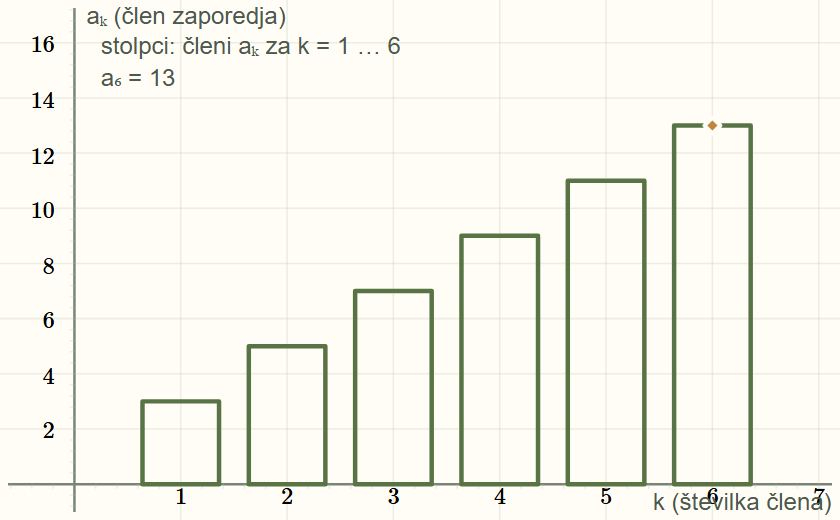
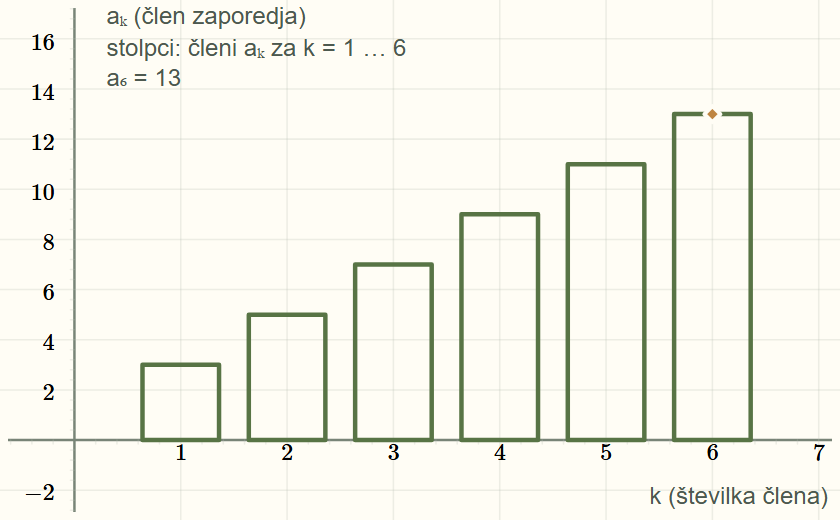
fix: growth board texts stay clear of the axes and tick numbers
The x title stands under the tick row at the bottom right, negative x tick
numbers are not written, and the y title, caption rows and legend sit
16 px right of the axis. The card capture accepts the screen-anchored
legend samples of the growth cards. Recursion cards recaptured.

Claude-Session: https://claude.ai/code/session_01UfEZWPAJjUDrtsi1qRQ28P

diff --git a/src/graphs/recursion/GrowthGraph.tsx b/src/graphs/recursion/GrowthGraph.tsx
@@ -78,12 +78,26 @@ const INTEREST_STYLES: readonly Style[] = [
 const ROW_Y = 0.97;
 const ROW_STEP = 0.06;
 const rowY = (row: number): number => ROW_Y - ROW_STEP * (row + 1);
-const TEXT_X = 0.12;
+/** Pixels: the gap of every text right of the vertical axis; the length of a legend sample; the room under the horizontal axis for the tick numbers (22) and the axis title (18) and their gaps. */
+const AXIS_GAP_PX = 16;
+const SAMPLE_PX = 36;
+const BAND_PX = 48;
+/** Pixels between the axis title and the bottom edge of the board. */
+const TITLE_GAP_PX = 5;
 
 interface Cache {
     readonly state: GrowthGraphState;
     readonly derived: GrowthDerived;
     readonly box: Box;
+    readonly height: number;
+}
+
+/** The box with at least `BAND_PX` pixels of a board `height` px tall under the horizontal axis (y = 0): the tick numbers and the axis title stand there. */
+function withBand(box: Box, height: number): Box {
+    const [left, top, right, bottom] = box;
+    if (!(height > 2 * BAND_PX) || !(top > 0) || bottom * 0 !== 0) return box;
+    if (-bottom * height / (top - bottom) >= BAND_PX) return box;
+    return [left, top, right, -BAND_PX * top / (height - BAND_PX)];
 }
 
 function boxOf(state: GrowthState, derived: GrowthDerived): Box {
@@ -155,7 +169,7 @@ export class GrowthGraph extends BaseGraph<GrowthGraphState, GrowthState> {
 
     override importPresetData(data: GrowthState): void {
         const imported = serializeGrowthState(data);
-        if (this.keepImportedView) this.drawnBox = boxOf(imported, deriveGrowth(imported));
+        if (this.keepImportedView) this.drawnBox = withBand(boxOf(imported, deriveGrowth(imported)), this.boardHeight());
         this.setState(imported);
     }
 
@@ -175,17 +189,23 @@ export class GrowthGraph extends BaseGraph<GrowthGraphState, GrowthState> {
     }
 
     protected override initialView(): [number, number, number, number] {
-        return [...boxOf(DEFAULT_GROWTH_STATE, deriveGrowth(DEFAULT_GROWTH_STATE))];
+        return [...withBand(boxOf(DEFAULT_GROWTH_STATE, deriveGrowth(DEFAULT_GROWTH_STATE)), this.boardHeight())];
     }
 
     // ---- Derived numbers: a cache keyed by the state object ---------------------------------------------------------------
 
     private current(): Cache {
-        if (!this.cache || this.cache.state !== this.state) {
-            const derived = deriveGrowth(this.state);
-            this.cache = {state: this.state, derived, box: boxOf(this.state, derived)};
+        const height = this.boardHeight();
+        if (!this.cache || this.cache.state !== this.state || this.cache.height !== height) {
+            const derived = this.cache?.state === this.state ? this.cache.derived : deriveGrowth(this.state);
+            this.cache = {state: this.state, derived, box: withBand(boxOf(this.state, derived), height), height};
         }
         return this.cache;
+    }
+
+    /** The height of the board in pixels, or 0 before there is a board. */
+    private boardHeight(): number {
+        return this.hasBoard && this.board.canvasHeight > 0 ? this.board.canvasHeight : 0;
     }
 
     derived(): GrowthDerived { return this.current().derived; }
@@ -279,17 +299,40 @@ export class GrowthGraph extends BaseGraph<GrowthGraphState, GrowthState> {
         return curve;
     }
 
-    private caption(text: () => string, place: () => {x: number; y: number}, visible: () => boolean, anchorX: "left" | "right" = "left"): JXG.Text {
+    private caption(text: () => string, place: () => {x: number; y: number}, visible: () => boolean, anchorX: "left" | "right" = "left", anchorY: "middle" | "bottom" = "middle"): JXG.Text {
         return this.scene.own(this.board.create("text", [() => place().x, () => place().y, text], {
-            strokeColor: GraphPalette.label, fontSize: 14, anchorX, anchorY: "middle", fixed: true, highlight: false, withLabel: false, visible,
+            strokeColor: GraphPalette.label, fontSize: 14, anchorX, anchorY, fixed: true, highlight: false, withLabel: false, visible,
         }));
     }
 
-    /** The vertical axis title starts a few pixels right of the axis, where no tick label stands (they are left of it). */
-    private axisTitleX(): number {
-        const [xmin, , xmax] = this.current().box;
+    /** The x of the texts right of the vertical axis (its title, the legend, the caption rows): `AXIS_GAP_PX` right of the axis, where no tick number stands (they are left of it). */
+    private textLeft(): number {
+        const [xmin, , xmax] = this.view();
+        return (xmin < 0 && xmax > 0 ? 0 : xmin) + this.pixels(AXIS_GAP_PX);
+    }
+
+    /** The window the board shows (the panel's own box until the user pans or zooms, a capture sets its own): the texts are placed in it, in pixels from its edges and the axes. */
+    private view(): Box {
+        const [left, top, right, bottom] = this.hasBoard ? this.board.getBoundingBox() : this.current().box;
+        return [left, top, right, bottom];
+    }
+
+    /** A length in pixels as a width in board units. */
+    private pixels(px: number): number {
         const {unitX} = this.board;
-        return (xmin < 0 && xmax > 0 ? 0 : xmin) + 6 / (unitX > 0 ? unitX : 1);
+        return px / (unitX > 0 ? unitX : 1);
+    }
+
+    /** The x tick numbers of negative x are not written: the quantities start at 0 and 1, and a number there is cut at the left edge. */
+    protected override defaultAxesAttributes() {
+        const axis = this.styles.axis;
+        const labelOf = axis.defaultX.ticks?.generateLabelText as ((this: object, ...label: unknown[]) => string) | undefined;
+        const nonNegative = function (this: object, ...label: unknown[]): string {
+            const tick = label[0] as {usrCoords?: number[]} | undefined;
+            if (tick?.usrCoords && tick.usrCoords[1] < 0) return "";
+            return labelOf ? labelOf.apply(this, label) : "";
+        };
+        return {x: {...axis.defaultX, ticks: {...axis.defaultX.ticks, generateLabelText: nonNegative}}, y: axis.defaultY};
     }
 
     private marker(x: () => number, y: () => number, visible: () => boolean, face: string, color: string): JXG.Point {
@@ -303,9 +346,9 @@ export class GrowthGraph extends BaseGraph<GrowthGraphState, GrowthState> {
         this.built = true;
         const state = () => this.state;
         const derived = () => this.derived();
-        const box = () => this.current().box;
+        const box = () => this.view();
         const on = (panel: GrowthPanel) => () => this.state.panel === panel;
-        const place = (fx: number, fy: number) => () => at(box(), fx, fy);
+        const textAt = (fy: number, offsetPx = 0) => () => ({x: this.textLeft() + this.pixels(offsetPx), y: at(box(), 0, fy).y});
 
         // Sequence panel: the bars of the terms, the limit line, the n-th term marked.
         this.curve(() => barsPath(derived().sequence.terms.map(Number)), {color: GraphPalette.primaryCurve, width: 2, dash: 0}, on("sequence"));
@@ -314,10 +357,10 @@ export class GrowthGraph extends BaseGraph<GrowthGraphState, GrowthState> {
             return {x: [box()[0], box()[2]], y: [limit, limit]};
         }, {color: GraphPalette.comparisonCurve, width: 2, dash: 2}, () => state().panel === "sequence" && derived().sequence.limit !== null);
         this.marker(() => state().n, () => Number(derived().sequence.nth), on("sequence"), "diamond", GraphPalette.constructionAccent);
-        this.caption(() => t("recursion_graph_growth_cap_bars", {value0: state().n}), place(TEXT_X, rowY(0)), on("sequence"));
+        this.caption(() => t("recursion_graph_growth_cap_bars", {value0: state().n}), textAt(rowY(0)), on("sequence"));
         this.caption(() => t("recursion_graph_growth_cap_nth", {value0: subscript(state().n), value1: seq(derived().sequence.nth)}),
-            place(TEXT_X, rowY(1)), on("sequence"));
-        this.caption(() => t("recursion_graph_growth_cap_limit", {value0: num(derived().sequence.limit ?? NaN)}), place(TEXT_X, rowY(2)),
+            textAt(rowY(1)), on("sequence"));
+        this.caption(() => t("recursion_graph_growth_cap_limit", {value0: num(derived().sequence.limit ?? NaN)}), textAt(rowY(2)),
             () => state().panel === "sequence" && derived().sequence.limit !== null);
 
         // Interest panel: four curves in the window of the years, each with a legend line of the same style and a caption.
@@ -345,10 +388,10 @@ export class GrowthGraph extends BaseGraph<GrowthGraphState, GrowthState> {
         });
         INTEREST_STYLES.forEach((style, index) => {
             this.curve(() => {
-                const from = at(box(), TEXT_X, rowY(index));
-                return {x: [from.x, at(box(), TEXT_X + 0.06, rowY(index)).x], y: [from.y, from.y]};
+                const from = textAt(rowY(index))();
+                return {x: [from.x, from.x + this.pixels(SAMPLE_PX)], y: [from.y, from.y]};
             }, style, on("interest"));
-            this.caption(captions[index], place(TEXT_X + 0.08, rowY(index)), on("interest"));
+            this.caption(captions[index], textAt(rowY(index), SAMPLE_PX + 8), on("interest"));
         });
 
         // Logarithm panel: the points (n, ln y), the chord through the first and the last point, one marker per point.
@@ -359,14 +402,14 @@ export class GrowthGraph extends BaseGraph<GrowthGraphState, GrowthState> {
                 () => state().panel === "log" && index < derived().log.ns.length, "circle", GraphPalette.primaryCurve);
         }
         this.caption(() => t(state().logModel === "exponential" ? "recursion_graph_growth_cap_points_exponential" : "recursion_graph_growth_cap_points_power"),
-            place(TEXT_X, rowY(0)), on("log"));
-        this.caption(() => t("recursion_graph_growth_cap_chord", {value0: num(derived().log.slope)}), place(TEXT_X, rowY(1)), on("log"));
+            textAt(rowY(0)), on("log"));
+        this.caption(() => t("recursion_graph_growth_cap_chord", {value0: num(derived().log.slope)}), textAt(rowY(1)), on("log"));
 
         // Axis captions of every panel: what the horizontal and the vertical axis show, and the unit.
         this.caption(() => t(state().panel === "sequence" ? "recursion_graph_growth_cap_x_sequence" : state().panel === "interest"
-            ? "recursion_graph_growth_cap_x_interest" : "recursion_graph_growth_cap_x_log"), place(0.99, 0.035), () => true, "right");
+            ? "recursion_graph_growth_cap_x_interest" : "recursion_graph_growth_cap_x_log"), () => ({x: box()[2] - this.pixels(6), y: box()[3] + TITLE_GAP_PX / (this.board.unitY > 0 ? this.board.unitY : 1)}), () => true, "right", "bottom");
         this.caption(() => t(state().panel === "sequence" ? "recursion_graph_growth_cap_y_sequence" : state().panel === "interest"
-            ? "recursion_graph_growth_cap_y_interest" : "recursion_graph_growth_cap_y_log"), () => ({x: this.axisTitleX(), y: at(box(), 0, ROW_Y).y}), () => true);
+            ? "recursion_graph_growth_cap_y_interest" : "recursion_graph_growth_cap_y_log"), () => ({x: this.textLeft(), y: at(box(), 0, ROW_Y).y}), () => true);
     }
 
     private disposeScene(): void {

diff --git a/src/graphs/recursion/GrowthGraph.test.tsx b/src/graphs/recursion/GrowthGraph.test.tsx
@@ -603,3 +603,75 @@ describe('the vertical axis title', () => {
         }
     });
 });
+
+/** Board texts as pixel boxes from the board's top left corner (the glyph box from its anchor), and the axes' pixel position. */
+function pixelBoxes(graph: ObservedGraph) {
+    const board = graph.liveBoard() as unknown as {unitX: number; unitY: number; getBoundingBox(): number[]};
+    const [left, top] = board.getBoundingBox();
+    const infobox = (board as unknown as {infobox?: unknown}).infobox;
+    const boxes = visible(texts(graph)).filter(o => (o as unknown) !== infobox).map(o => {
+        const text = o.plaintext ?? '';
+        const probe = o as Probe & {X(): number; Y(): number};
+        const size = Number(o.evalVisProp('fontsize')) || 14;
+        const w = text.length * size * 0.55, h = size * 1.15;
+        const x = (probe.X() - left) * board.unitX, y = (top - probe.Y()) * board.unitY;
+        const ax = o.evalVisProp('anchorx'), ay = o.evalVisProp('anchory');
+        const x0 = ax === 'right' ? x - w : ax === 'middle' ? x - w / 2 : x;
+        const y0 = ay === 'bottom' ? y - h : ay === 'middle' ? y - h / 2 : y;
+        return {text, x0, y0, x1: x0 + w, y1: y0 + h};
+    });
+    return {boxes, axisX: Math.max(0, -left * board.unitX), axisY: top * board.unitY, left, board};
+}
+
+/** Board sizes: a small phone board and a wide one. The jsdom default is 600 x 400. */
+describe.each([[600, 400], [340, 300], [840, 520]])('board texts clear of the axes and of each other (%i x %i px)', (W, H) => {
+    beforeEach(() => {
+        for (const [name, size] of Object.entries({clientWidth: W, offsetWidth: W, clientHeight: H, offsetHeight: H})) Object.defineProperty(HTMLElement.prototype, name, {configurable: true, get: () => size});
+        HTMLElement.prototype.getBoundingClientRect = () => ({x: 0, y: 0, left: 0, top: 0, right: W, bottom: H, width: W, height: H, toJSON: () => ({})}) as DOMRect;
+    });
+    afterEach(() => {
+        for (const [name, size] of [['clientWidth', 600], ['clientHeight', 400], ['offsetWidth', 600], ['offsetHeight', 400]] as const) Object.defineProperty(HTMLElement.prototype, name, {configurable: true, get: () => size});
+        HTMLElement.prototype.getBoundingClientRect = () => ({x: 0, y: 0, left: 0, top: 0, right: 600, bottom: 400, width: 600, height: 400, toJSON: () => ({})}) as DOMRect;
+    });
+
+    for (const value of ['sequence', 'interest', 'log'] as const) {
+        test(`${value}: the horizontal axis title stands under the tick number row, the vertical one and the legend clear of the axis`, () => {
+            const {graph} = mountGraph();
+            panel(value);
+            const {boxes, axisX, axisY, board} = pixelBoxes(graph);
+            expect([(board as unknown as {canvasWidth: number}).canvasWidth, (board as unknown as {canvasHeight: number}).canvasHeight]).toEqual([W, H]);
+            const title = boxes.find(b => b.text === t(`recursion_graph_growth_cap_x_${value}`))!;
+            expect(title, 'x title').toBeDefined();
+            // The tick numbers take about 22 px under the axis line.
+            expect(title.y0 - axisY, `x title top ${title.y0}, axis ${axisY}`).toBeGreaterThanOrEqual(22);
+            expect(title.y1).toBeLessThanOrEqual(H);
+            expect(title.x1).toBeLessThanOrEqual(W);
+            expect(title.x0).toBeGreaterThanOrEqual(0);
+            for (const box of boxes.filter(b => b !== title && b.x0 < axisX + 400)) {
+                expect(box.x0 - axisX, `"${box.text}" starts ${box.x0 - axisX} px right of the vertical axis`).toBeGreaterThanOrEqual(10);
+            }
+            boxes.forEach((box, i) => boxes.slice(i + 1).forEach(other => {
+                const crossing = box.x0 < other.x1 && box.x1 > other.x0 && box.y0 < other.y1 && box.y1 > other.y0;
+                expect(crossing, `"${box.text}" and "${other.text}" overlap`).toBe(false);
+            }));
+        });
+    }
+
+    test('the interest legend samples start clear of the vertical axis', () => {
+        const {graph} = mountGraph();
+        panel('interest');
+        const {axisX, left, board} = pixelBoxes(graph);
+        for (const curve of curves(graph).slice(LEGEND, LEGEND + 4)) {
+            expect((curve.dataX![0] - left) * board.unitX - axisX, 'legend sample start').toBeGreaterThanOrEqual(10);
+        }
+    });
+
+    test('no x tick number is written for a negative x (the quantities start at 0 and 1), so none is cut at the left edge', () => {
+        const {graph} = mountGraph();
+        for (const value of ['sequence', 'interest', 'log'] as const) {
+            panel(value);
+            const ticks = (graph.liveBoard() as unknown as {defaultAxes: {x: {defaultTicks: {generateLabelText(tick: unknown, zero: unknown): string}}}}).defaultAxes.x.defaultTicks;
+            expect(ticks.generateLabelText({usrCoords: [1, -0.1, 0]}, {distance: () => 1}), value).toBe('');
+        }
+    });
+});

diff --git a/src/learning/chapter/guidedExamplePreviews.ts b/src/learning/chapter/guidedExamplePreviews.ts
@@ -52,7 +52,7 @@ const patchImageUrls = import.meta.glob<string>('/src/images/learning/examples/p
     import: 'default',
 });
 
-/** Captured images in one subdirectory per chapter-owned chapter (the chapter id, named in `chapterFamilies` of the capture script, one PNG per example id plus its manifest, written by the capture script (recaptured after board text layout passes, the analytic-lines, isometries and circle-geometry ones too), each chapter folder, the level-sets and solids ones too, are read here once its images exist); the patches subdirectory has its own lookup below. */
+/** Captured images in one subdirectory per chapter-owned chapter (the chapter id, named in `chapterFamilies` of the capture script, one PNG per example id plus its manifest, written by the capture script (recaptured after board text layout passes, the analytic-lines, isometries, circle-geometry and recursion ones too), each chapter folder, the level-sets and solids ones too, are read here once its images exist); the patches subdirectory has its own lookup below. */
 const chapterImageUrls = import.meta.glob<string>('/src/images/learning/examples/*/*.png', {
     eager: true,
     query: '?url',

diff --git a/docs/reviews/feature-streams/families-prep/notes/f5-recursion.md b/docs/reviews/feature-streams/families-prep/notes/f5-recursion.md
@@ -9,3 +9,10 @@
 - Board labels touching: sequences: axis caption `k (številka člena)` overlaps the tick labels 6 and 7; the title `aₖ (člen zaporedja)` touches the vertical axis line; the diamond sits on the top edge of bar 6 (intended marker). Interest: axis caption `t (leta)` overlaps tick label 1; tick label `-0,1` is cut at the left edge; legend captions start right at the vertical axis. No handles on either board. Not fixable in owned paths (graph code).
 - Readouts already showing step 1's answer: none. Sequences shows `a₆ = 13` (step 1 asks a₁₀); interest shows 1050 each after one year (step 1 asks the 10-year values). Copy names no value.
 - Preview server on 4519 stopped; port closed. Logs: `.command-logs/f5-cards/recursion/`.
+
+## Label pass (handler 20)
+
+- `GrowthGraph.tsx`: the horizontal axis title is anchored in pixels at the bottom right of the board (5 px above the edge), the frame (`withBand`) keeps 48 px under the axis (y = 0) for the tick numbers and that title, so the title no longer overlaps tick numbers 6 and 7 (sequences) or 1 (interest). The x tick numbers of negative x are not written (`defaultAxesAttributes`), which removes the cut "-0,1". The vertical axis title, the caption rows and the interest legend start 16 px right of the vertical axis (were 6 px and 0.12 of the window); legend samples are 36 px long, their captions 8 px after. Texts are placed in the board's actual window (`view()`), not the panel's cached box. Same texts, ids, objects and values.
+- Test (`GrowthGraph.test.tsx`, "board texts clear of the axes", at 600x400, 340x300 and 840x520): red before the fix (x title 5.5 px under the axis, -3 px on interest, legend samples and texts at 0 to 6 px from the axis; `red.log`), green after. The tick-number test was red for a throw inside the default label function (it cannot take a fake tick), and was shown to fail by disabling the new rule (`red2.log`).
+- Capture script: the two recursion windows lower the bottom (80 px under the axis on the card, whose text is larger); the geometry-stability check accepts a legend sample (horizontal segment of equal pixel length) redrawn in the card's units (`isScreenAnchoredHorizontalSegment`). Cards recaptured and viewed; `expected` checks unchanged.
+- Screenshots at 1366 and 390 of the default and both openings viewed. Remaining: the lesson panel ("Vodeni primer") floats over the vertical axis title on the 1366 openings (host overlay, not the graph). Logs: `.command-logs/label-pass/recursion/`.
